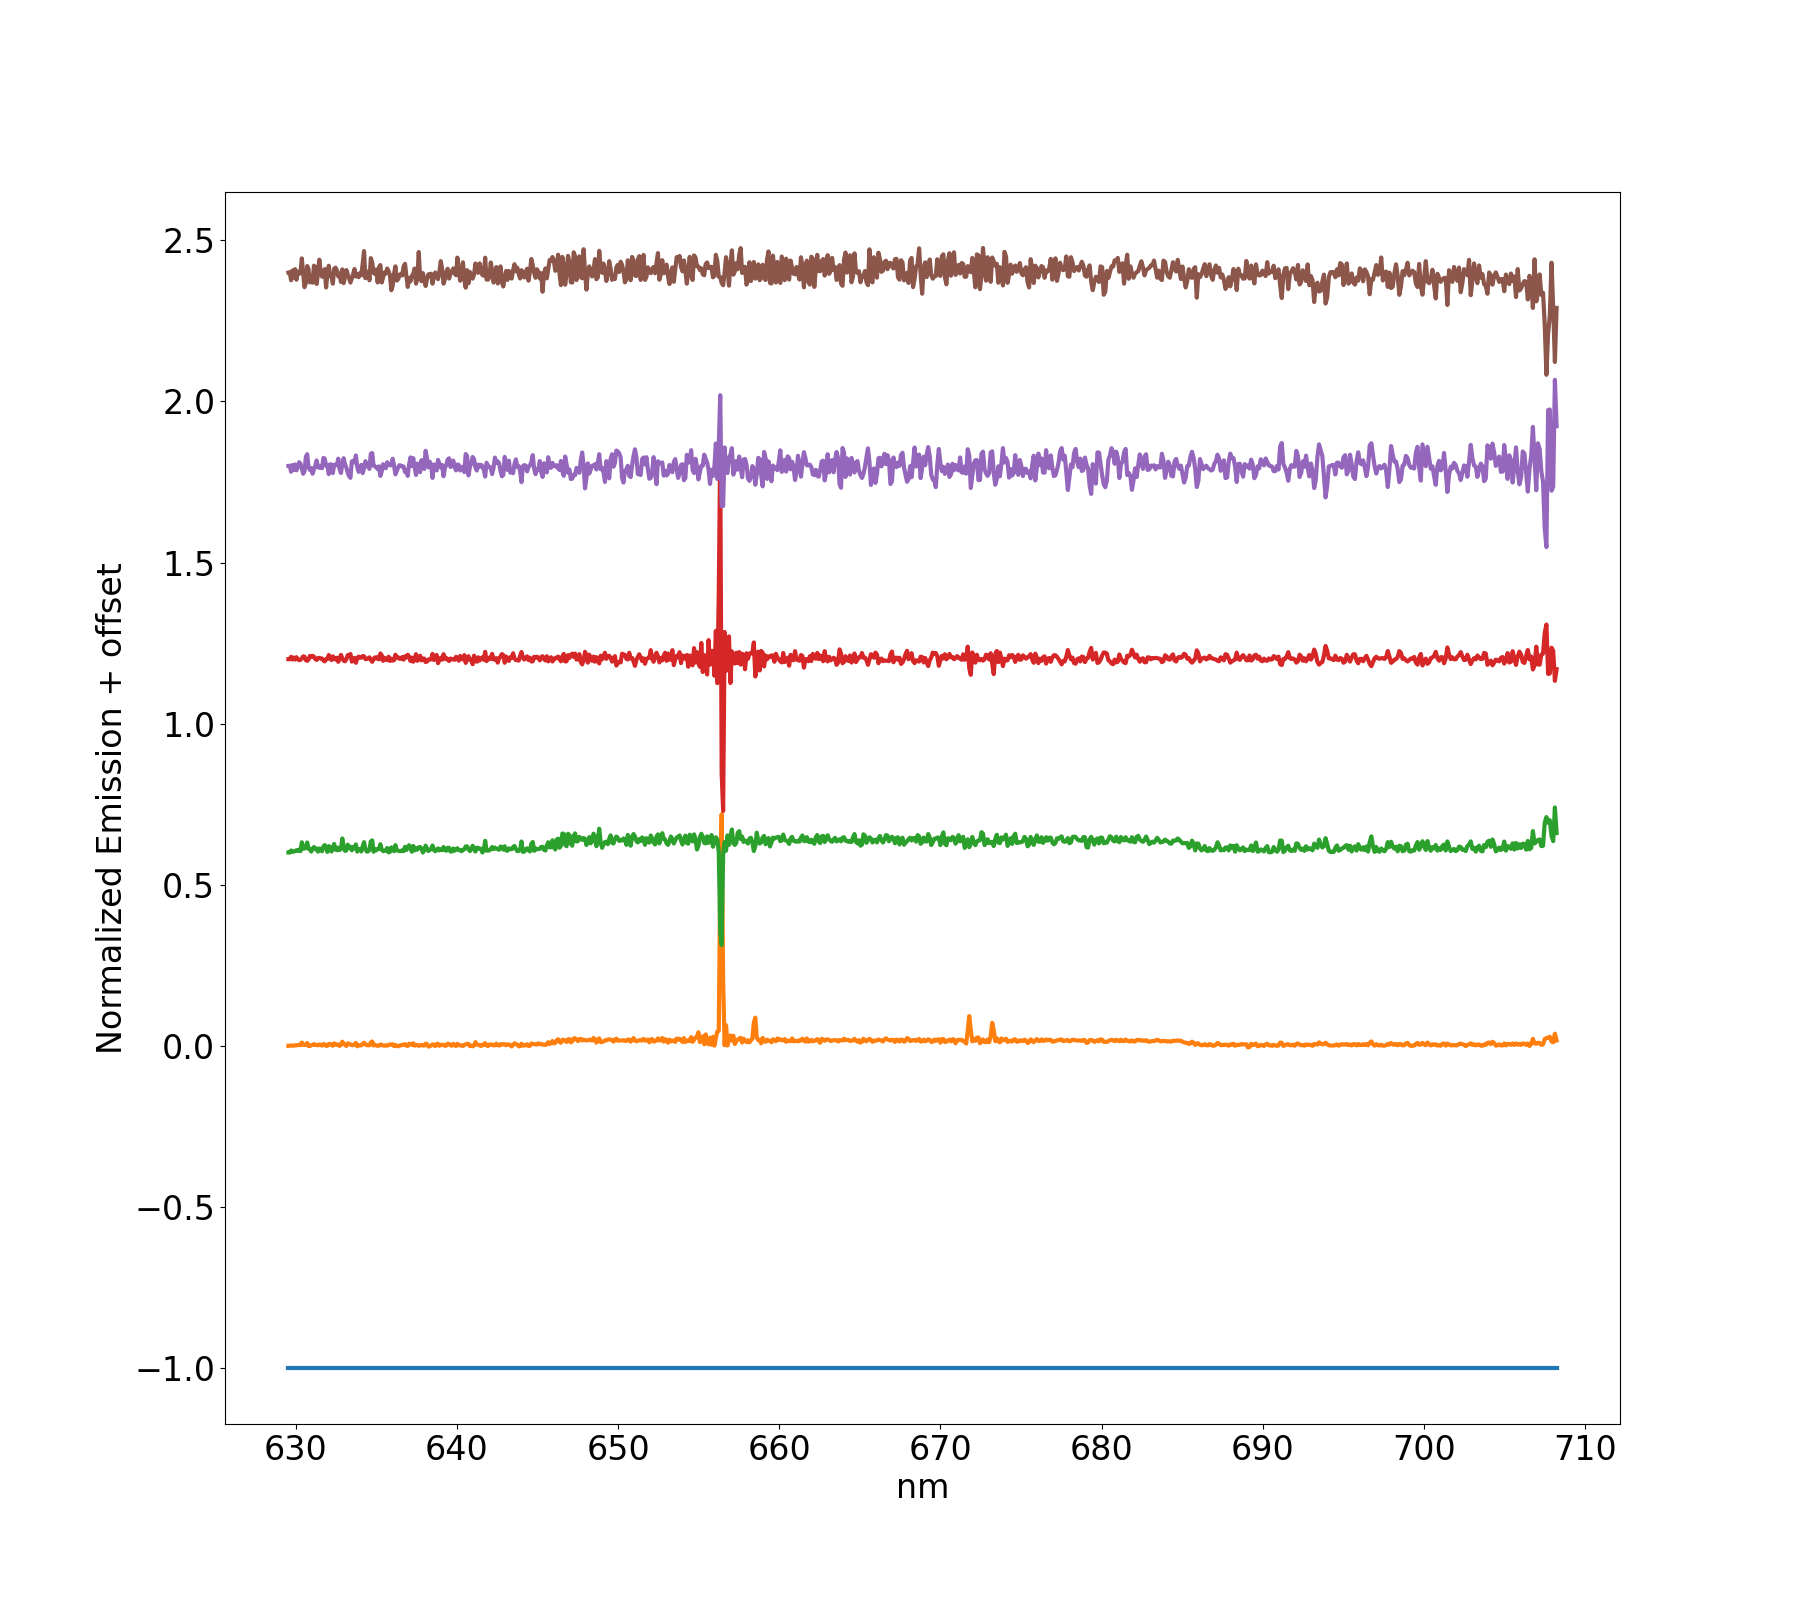
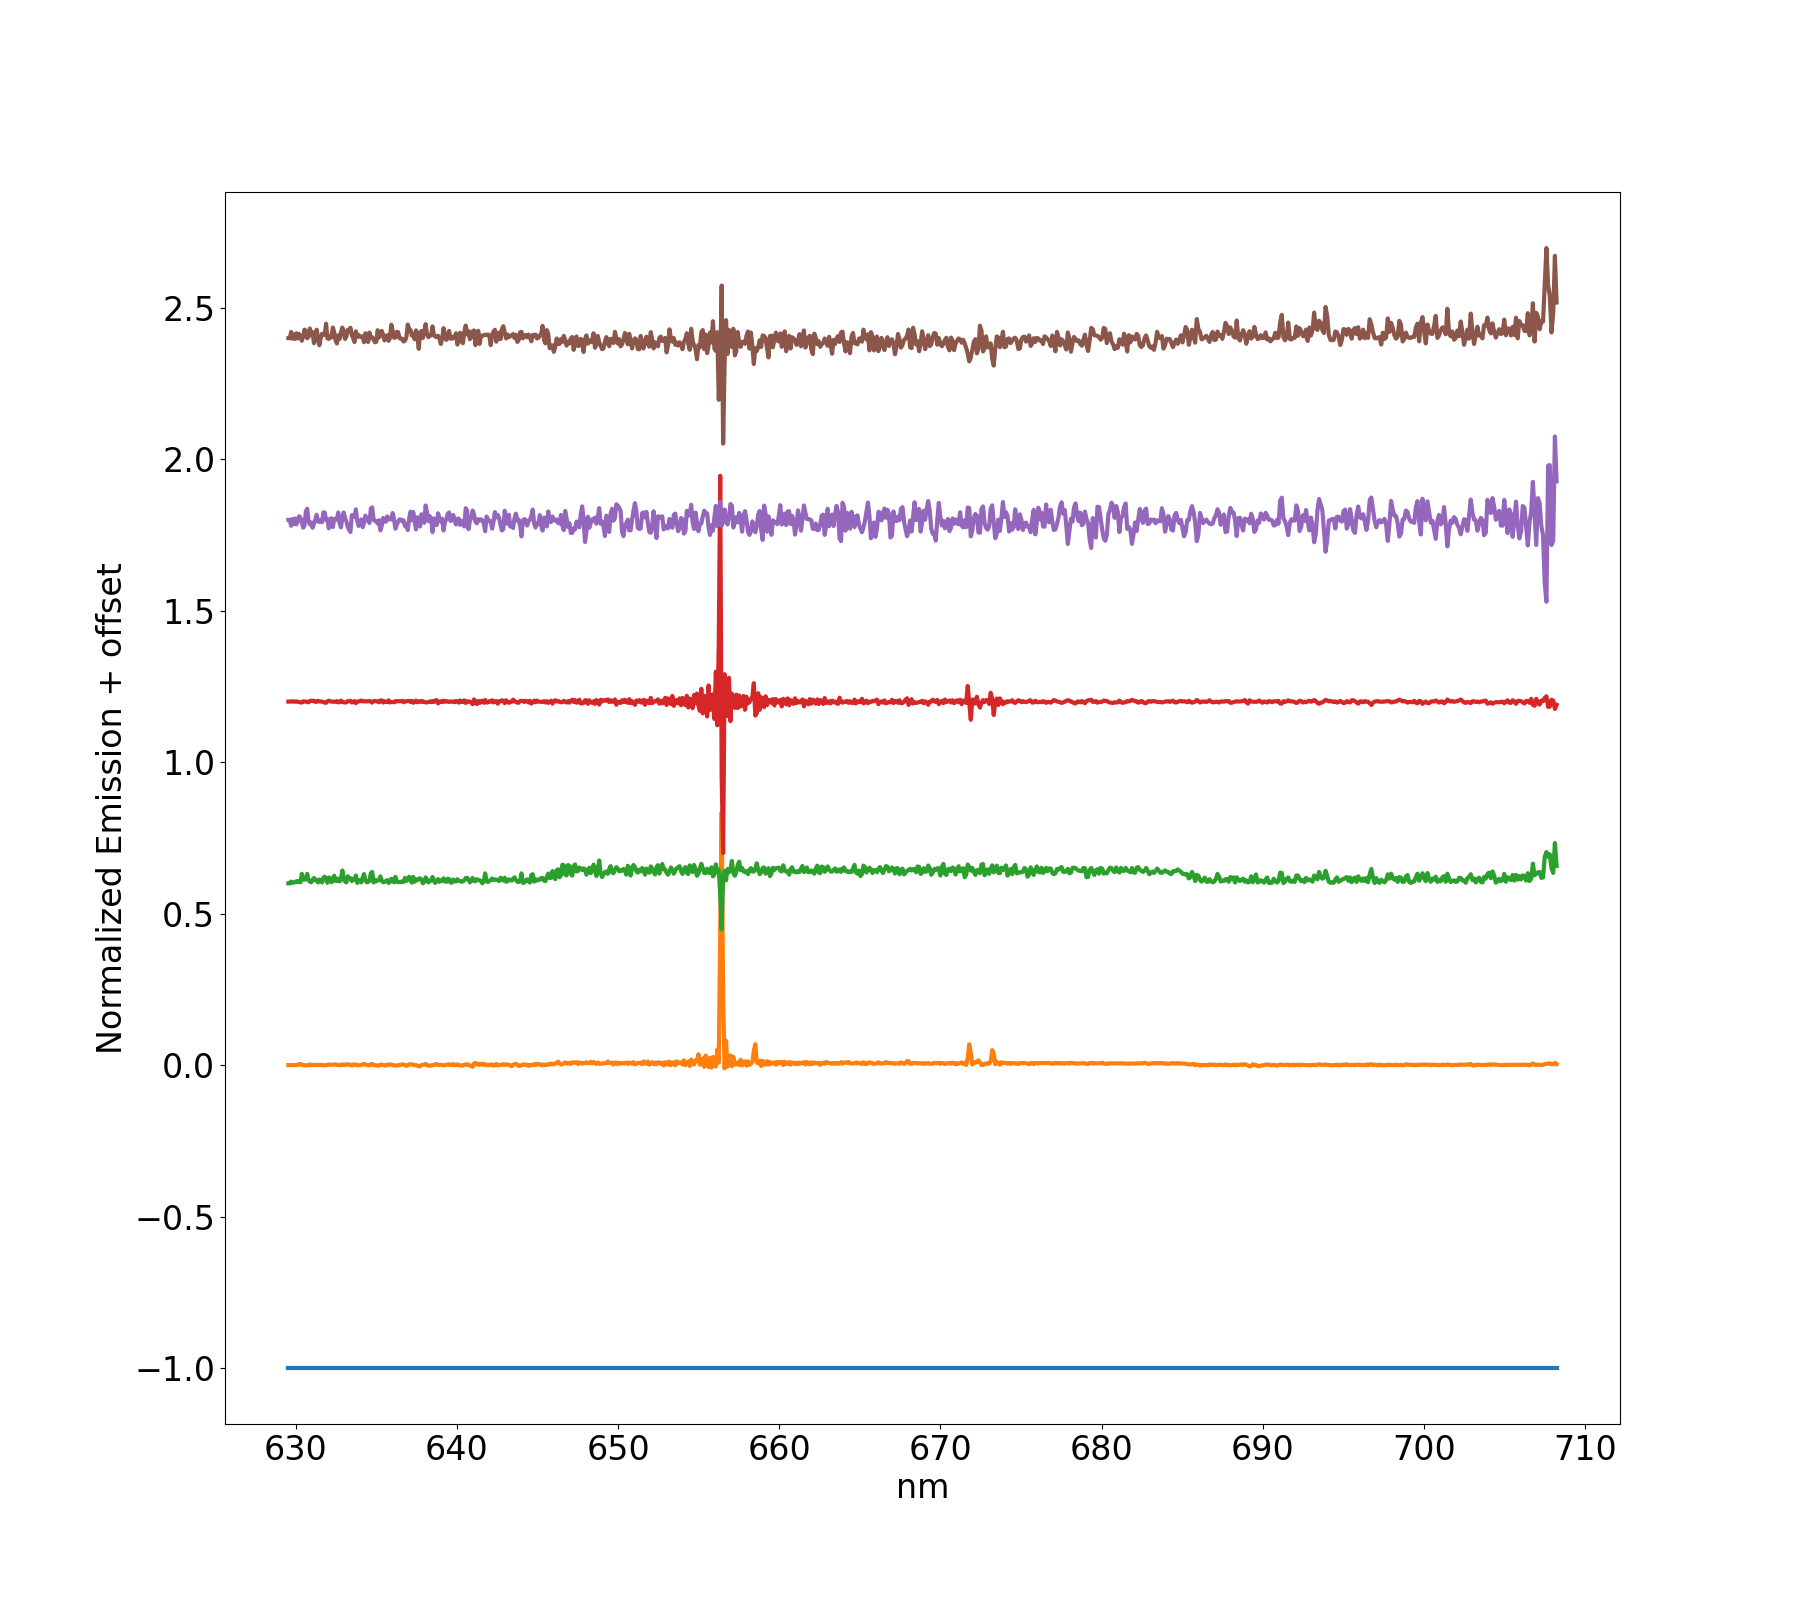
Updated the uncertainty error calculation using the Hessian. The order of operations was inversed (scale should be AFTER calculating the Hessian) and I was missing a scaling factor. Note that the bayesian fitting errors were not affected by this!

diff --git a/LUCI/LuciFit.py b/LUCI/LuciFit.py
@@ -595,6 +595,16 @@ class Fit:
         best_loss = 1e46  # Initialize as a large number
         nll = lambda *args: -self.log_likelihood(*args)  # Negative Log Likelihood function
         if not self.freeze:  # Not freezing velocity and broadening
+            # Set constraints
+            sigma_cons = self.sigma_constraints()  # Call sigma constraints
+            vel_cons = self.vel_constraints()  # Call velocity constraints
+            vel_cons_multiple = self.multiple_component_vel_constraint() + self.amplitude_constraint()
+            # CONSTRAINTS
+            if 'NII6548' in self.lines and 'NII6583' in self.lines and self.nii_cons is True:  # Add additional constraint on NII doublet relative amplitudes
+                nii_constraints = self.NII_constraints()
+                cons = sigma_cons + vel_cons + vel_cons_multiple  # + nii_constraints
+            else:
+                cons = sigma_cons + vel_cons + vel_cons_multiple
             cont_est = self.cont_estimate(sigma_level=1)  # Calculate continuum constant
             for st in range(self.n_stoch):  # Do N fits and record the one with the best loss 
                 initial = np.ones((3 * self.line_num + 1))  # Initialize solution vector  (3*num_lines plus continuum)
@@ -610,16 +620,7 @@ class Fit:
                     else:
                         initial[3 * mod + 1] = np.random.normal(vel_est, vel_est)  # Sample wavenumber from a normal distribution around the ML value
                         initial[3 * mod + 2] = np.random.normal(sigma_est, sigma_est)  # Sample wavenumber from a normal distribution around the ML value
-                # Set constraints
-                sigma_cons = self.sigma_constraints()  # Call sigma constraints
-                vel_cons = self.vel_constraints()  # Call velocity constraints
-                vel_cons_multiple = self.multiple_component_vel_constraint()+ self.amplitude_constraint()
-                # CONSTRAINTS
-                if 'NII6548' in self.lines and 'NII6583' in self.lines and self.nii_cons is True:  # Add additional constraint on NII doublet relative amplitudes
-                    nii_constraints = self.NII_constraints()
-                    cons = sigma_cons + vel_cons + vel_cons_multiple #+ nii_constraints
-                else:
-                    cons = sigma_cons + vel_cons + vel_cons_multiple
+
                 soln = minimize(nll, initial,
                             method='SLSQP',
                             options={'disp': False, 'maxiter': 200},
@@ -647,7 +648,7 @@ class Fit:
                             method='SLSQP',
                             options={'disp': False, 'maxiter': 30},
                             tol=1e-8, jac="3-point", hess='3-point',
-                            args=(), constraints=cons)
+                            args=())  # , constraints=cons)
                 if st == 0:
                     best_loss = soln.fun
                     best_fit = soln.x
@@ -657,6 +658,16 @@ class Fit:
         # Call minimize! This uses the previously defined negative log likelihood function and the restricted axis
         # We do **not** use the interpolated spectrum here!
         parameters = best_fit
+        if self.uncertainty_bool:
+            # Calculate uncertainties using the negative inverse hessian  as the covariance matrix
+            hessian_calc = 0.5*hessianComp(nll,parameters)
+            DOF_scale = np.sqrt(len(self.axis_restricted) - self.line_num + 1)
+            try:
+                covariance_mat = -np.linalg.inv(hessian_calc)
+                self.uncertainties = np.sqrt(np.abs(np.diagonal(covariance_mat)))/DOF_scale
+            except np.linalg.LinAlgError:
+                covariance_mat = -np.linalg.pinv(hessian_calc)
+                self.uncertainties = np.sqrt(np.abs(np.diagonal(covariance_mat)))/DOF_scale
         # We now must unscale the amplitude
         for i in range(self.line_num):
             if self.freeze:  # Freezing velocity and broadening
@@ -665,18 +676,10 @@ class Fit:
             else:
                 parameters[i * 3] *= self.spectrum_scale
                 self.uncertainties[i * 3] *= self.spectrum_scale
+
         # Scale continuum
         parameters[-1] *= self.spectrum_scale
         self.uncertainties[-1] *= self.spectrum_scale
-        if self.uncertainty_bool:
-            # Calculate uncertainties using the negative inverse hessian  as the covariance matrix
-            hessian_calc = hessianComp(nll,parameters)
-            try:
-                covariance_mat = -np.linalg.inv(hessian_calc)
-                self.uncertainties = np.sqrt(np.abs(np.diagonal(covariance_mat)))
-            except np.linalg.LinAlgError:
-                covariance_mat = -np.linalg.pinv(hessian_calc)
-                self.uncertainties = np.sqrt(np.abs(np.diagonal(covariance_mat)))
         if not self.freeze:  # Not freezing velocity and broadening so nothing needs to be done
             self.fit_sol = parameters
         else:  # We want to add back the velocity and broadening as if they were fit so we don't have to rewrite as much
@@ -779,7 +782,6 @@ class Fit:
         else:  # Fit sky line
             self.spectrum_scale = np.max(self.spectrum)
             # Apply Fit
-            
             nll = lambda *args: -self.log_likelihood(*args)  # Negative Log Likelihood function
             initial = np.ones(3 * self.line_num + 1)
             skylines_vals = list(self.sky_lines.values())
@@ -796,11 +798,11 @@ class Fit:
                     initial[3 * mod] = self.spectrum_normalized[line_ind]
                 initial[3 * mod + 1] = 1e7 / ((80 * (skylines_vals[mod]) / SPEED_OF_LIGHT) + skylines_vals[mod])
                 initial[3 * mod + 2] = .01
-            initial[-1] = self.cont_estimate(sigma_level=3)
+            initial[-1] = self.cont_estimate(sigma_level=2)
             # self.initial_values = initial
-            sigma_cons = self.sigma_constraints()  # Call sigma constaints
-            vel_cons = self.vel_constraints()  # Call velocity constraints
-            cons = sigma_cons + vel_cons
+            #sigma_cons = self.sigma_constraints()  # Call sigma constaints
+            #vel_cons = self.vel_constraints()  # Call velocity constraints
+            cons = self.amplitude_constraint()
             soln = minimize(nll, initial,
                             method='SLSQP',
                             options={'disp': False , 'maxiter': 200},
@@ -808,18 +810,62 @@ class Fit:
                             args=()#, constraints=cons
                             )
             parameters = soln.x
-
-
+            if self.uncertainty_bool:
+                # Calculate uncertainties using the negative inverse hessian  as the covariance matrix
+                hessian_calc = hessianComp(nll, parameters)
+                #RSS = np.sum(np.square(df['Predicted'] - df['Actual']))
+                try:
+                    covariance_mat = -np.linalg.inv(hessian_calc)
+                    self.uncertainties = np.sqrt(np.abs(np.diagonal(covariance_mat)))
+                except np.linalg.LinAlgError:
+                    covariance_mat = -np.linalg.pinv(hessian_calc)
+                    self.uncertainties = np.sqrt(np.abs(np.diagonal(covariance_mat)))
             # We now must unscale the amplitude
             for i in range(self.line_num):
                 parameters[i * 3] *= self.spectrum_scale
                 self.uncertainties[i * 3] *= self.spectrum_scale
             # Scale continuum
             parameters[-1] *= self.spectrum_scale
+
+
             self.fit_sol = parameters
+            if self.bayes_bool:
+                #self.fit_Bayes()
+                n_dim = 3 * self.line_num + 1
+                # Set number of MCMC walkers. Again, this is somewhat arbitrary
+                n_walkers = 200  # n_dim * 5
+                random_ = 1e-2 * np.random.randn(n_walkers, n_dim)
+                for i in range(self.line_num):
+                    random_[:, 3 * i + 1] *= 1e3
+                    random_[:, 3 * i] *= 0.1
+                    random_[:, 3 * i + 2] *= 1e1
+                init_ = self.fit_sol + random_  # + self.fit_sol[-1] + random_
+                # Ensure continuum values for walkers are positive
+                init_[:, -1] = np.abs(init_[:, -1])
+                sampler = emcee.EnsembleSampler(n_walkers, n_dim, log_probability,
+                                            args=(self.axis_restricted, self.spectrum_restricted,
+                                                  self.noise, self.model_type, self.line_num, skylines_vals,
+                                                  self.line_dict, self.sinc_width,
+                                                  [self.vel_ml, self.broad_ml, self.vel_ml_sigma, self.broad_ml_sigma],
+                                                  self.vel_rel, self.sigma_rel, self.mdn
+                                                  )  # End additional args
+                                            )  # End EnsembleSampler
+                # Call Ensemble Sampler setting 2000 walks
+                sampler.run_mcmc(init_, 2000, progress=False)
+                # Obtain Ensemble Sampler results and discard first 200 walks (10%)
+                flat_samples = sampler.get_chain(discard=200, flat=True)
+                parameters_med = []
+                parameters_std = []
+                self.flat_samples = flat_samples
+                for i in range(n_dim):  # Calculate and store these results
+                    median = np.mean(flat_samples[:, i])
+                    std = np.std(flat_samples[:, i])
+                    parameters_med.append(median)
+                    parameters_std.append(std)
+            velocity_error = SPEED_OF_LIGHT * self.uncertainties[1] * (1e7 / (self.fit_sol[1] **2 * skylines_vals[0]))
             velocity = SPEED_OF_LIGHT * ((1e7 / self.fit_sol[1] - skylines_vals[0]) / skylines_vals[0])
             fit_vector = Sinc().plot(self.axis, self.fit_sol[:-1], self.line_num, self.sinc_width) + parameters[-1]
-            return velocity, fit_vector
+            return velocity, velocity_error, fit_vector
 
     def fit_Bayes(self):
         """

diff --git a/LuciBase.py b/LuciBase.py
@@ -1035,7 +1035,7 @@ class Luci():
         helio_kms = heliocorr.to(u.km / u.s)
         return helio_kms
 
-    def skyline_calibration(self, Luci_path, n_grid, bin_size=10):
+    def skyline_calibration(self, Luci_path, n_grid, bin_size=30):
         """
         Compute skyline calibration by fitting the 6498.729 Angstrom line. Flexures
         of the telescope lead to minor offset that can be measured by high resolution
@@ -1074,6 +1074,7 @@ class Luci():
         y_step = int(
             (y_max - y_min) / n_grid)  # Calculate step size based on min and max values and the number of grid points
         vel_grid = np.zeros((n_grid, n_grid))  # Initialize velocity grid
+        vel_uncertainty_grid = np.zeros((n_grid, n_grid))
         for x_grid in range(n_grid):  # Step through x steps
             for y_grid in range(n_grid):  # Step through y steps
                 # Collect spectrum in 10x10 region
@@ -1093,13 +1094,14 @@ class Luci():
                           self.model_ML, trans_filter=self.transmission_interpolated,
                           theta=self.interferometer_theta[x_center, y_center],
                           delta_x=self.hdr_dict['STEP'], n_steps=self.step_nb,
-                          zpd_index=self.zpd_index,
-                          filter=self.hdr_dict['FILTER'], bayes_bool=False, bayes_method='emcee',
+                          zpd_index=self.zpd_index, uncertainty_bool=True,
+                          filter=self.hdr_dict['FILTER'], bayes_bool=True, bayes_method='emcee',
                           sky_lines=sky_line_dict, sky_lines_scale=sky_lines_scale
                           )
 
-                velocity, fit_vector = fit.fit(sky_line=True)
+                velocity, velocity_error, fit_vector = fit.fit(sky_line=True)
                 vel_grid[x_grid, y_grid] = float(velocity)
+                vel_uncertainty_grid[x_grid, y_grid] = float(velocity_error)
         # Now that we have the grid, we need to reproject it onto the original pixel grid
         vel_grid_final = np.zeros((x_max, y_max))
         for x_grid in range(n_grid):  # Step through x steps
@@ -1110,7 +1112,7 @@ class Luci():
                 vel_grid_final[x_center - x_step:x_center + x_step, y_center - y_step:y_center + y_step] = vel_grid[
                     x_grid, y_grid]
         fits.writeto(self.output_dir + '/velocity_correction.fits', vel_grid, self.header, overwrite=True)
-        return velocity, fit_vector, sky, vel_grid, self.spectrum_axis
+        return velocity, fit_vector, sky, vel_grid, vel_uncertainty_grid, self.spectrum_axis
 
     def calculate_component_map(self, x_min=0, x_max=2048, y_min=0, y_max=2064, bkg=None, n_threads=2, region=None):
         # TODO: ADD Documentation and example

diff --git a/LUCI/LuciMask.py b/LUCI/LuciMask.py
@@ -20,18 +20,17 @@ sys.path.insert(0, path)  # add LUCI to the available paths
 from LuciBase import Luci
 import LUCI.LuciPlotting as lplt
 
-def find_background_pixels(deep_image, sigma_threshold=1, plot_mask=True):
+def find_background_pixels(deep_image, sigma_threshold=0.25, plot_mask=True):
     """
     This algorithm uses a sigma thresholding algorithm on the deep image to determine which pixels belong to the background.
     """
 
     zscore = (deep_image - deep_image.mean())/deep_image.std()  # Calculate z-score for each pixel
-    idx = np.argwhere(np.abs(zscore) < sigma_threshold)  # Get indices in array where z-score is above sigma_threshold
+    idx = np.argwhere(np.abs(zscore) > sigma_threshold)  # Get indices in array where z-score is above sigma_threshold
     if plot_mask == True:
         zscore_masked = np.where(np.abs(zscore) < sigma_threshold, zscore, 0)  
         plot_map_no_coords(zscore_masked, 'zscore')
-        #plt.show()
-    print(idx[0])
+        plt.show()
     return idx
 
 deep = fits.open('/mnt/carterrhea/carterrhea/NGC4449/Luci_outputs/NGC4449_deep.fits')[0].data
@@ -49,6 +48,8 @@ resolution = 5000
 cube = Luci(Luci_path, cube_dir+'/'+cube_name, cube_dir, object_name, redshift, resolution, mdn=False)
 
 print(len(idx))
+if len(idx) > 500000:
+    exit
 bkg_spectra = [cube.cube_final[index[0], index[1]] for index in idx if index[0]<2048 and index[1]<2064]
 print(len(bkg_spectra))
 n_components = 5

diff --git a/LUCI/LuciUtility.py b/LUCI/LuciUtility.py
@@ -394,7 +394,7 @@ def hessian(x):
     return hessian
 
 @jit(fastmath=True)
-def hessianComp(func,initial,delta=1e-3):
+def hessianComp(func,initial,delta=1e-1):
   """
   Calculate the hessian using finite differences. The function was taken from https://rh8liuqy.github.io/Finite_Difference.html.
 
